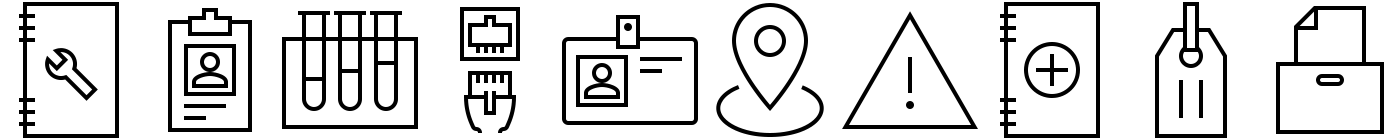
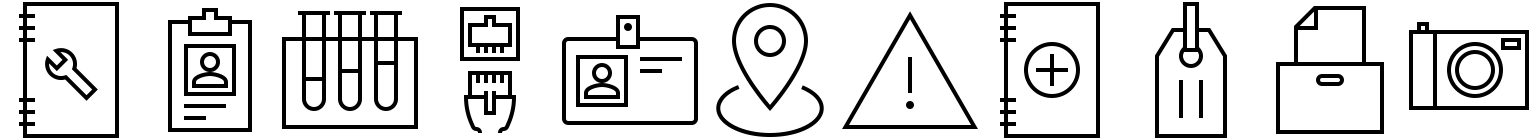
Fixes #440 - Allow a manufacturer to upload a manifest instead of having to paste it into the text area

Changed region(s): [[0.0, 0.0, 1.0, 1.0]]

diff --git a/app/assets/stylesheets/_forms.scss b/app/assets/stylesheets/_forms.scss
@@ -48,7 +48,12 @@ label {
 // Checkboxes ---------------------------------------------------------//
 
 input[type="checkbox"] {
-  display: none;
+  width: 0.1px;
+  height: 0.1px;
+  opacity: 0;
+  overflow: hidden;
+  position: absolute;
+  z-index: -1;
 
   & + label {
     color: $black;
@@ -92,6 +97,15 @@ input[type="checkbox"] {
     cursor: not-allowed;
     pointer-events: none; // Future-proof disabling of clicks
     opacity: .35;
+  }
+  & + label.cross {
+    margin: 0;
+    padding: 0;
+    line-height: normal;
+
+    &:before {
+      display: none;
+    }
   }
 }
 
@@ -218,3 +232,91 @@ body.devise {
 .input-block {
   width: 100%;
 }
+
+// Input file style ---------------------------------------------------------//
+
+.inputfile {
+  width: 0.1px;
+  height: 0.1px;
+  opacity: 0;
+  overflow: hidden;
+  position: absolute;
+  z-index: -1;
+}
+
+label.input,
+.inputfile + label {
+    font-family: $sans;
+    font-weight: 400;
+    color: $blue;
+    display: inline-block;
+    cursor: pointer;
+    max-width: 350px;
+    white-space: nowrap;
+    overflow: hidden;
+    text-overflow: ellipsis;
+    position: relative;
+
+}
+
+.clear-input,
+.clear-label {
+  line-height: normal;
+  display: none;
+  position: absolute;
+  right: 8px;
+  top: 12px;
+}
+
+label.on {
+  box-shadow: 0px 1px 3px rgba(0,0,0,0.4);
+  padding: 0 30px 0 10px;
+  width: 350px;
+  span {
+    color: $gray4;
+    text-transform: lowercase;
+  }
+  .clear-input,
+  .clear-label {
+    display: block;
+  }
+}
+.inputfile:focus + label,
+.inputfile + label:hover {
+    color: darken($blue, 10%);
+}
+
+.choose-picture {
+  text-align: center;
+  padding: 100px;
+  border: 2px dashed $gray1;
+  width: 540px;
+  height: 450px;
+  position: relative;
+
+  h2 {
+    margin: 0 0 8px 0;
+    color: $gray2;
+  }
+
+  .ic140-picture {
+    opacity: 0.4;
+  }
+
+  .clear-label {
+    display: block;
+  }
+}
+
+.file-uploaded + .upload-new-file {
+  display: none;
+}
+
+.file-uploaded.remove {
+  display: none;
+
+  + .upload-new-file {
+    display: block;
+  }
+}
+

diff --git a/vendor/assets/javascripts/jquery.custom-file-input.js b/vendor/assets/javascripts/jquery.custom-file-input.js
@@ -1,0 +1,51 @@
+/*
+  By Osvaldas Valutis, www.osvaldas.info
+  Available for use under the MIT License
+*/
+
+'use strict';
+
+;( function( $, window, document, undefined )
+{
+  $( '.inputfile' ).each( function()
+  {
+    var $input   = $( this ),
+      $label   = $input.next( 'label' ),
+      labelVal = $label.html();
+
+    $input.on( 'change', function( e )
+    {
+      var fileName = '';
+
+      if( this.files && this.files.length > 1 )
+        fileName = ( this.getAttribute( 'data-multiple-caption' ) || '' ).replace( '{count}', this.files.length );
+      else if( e.target.value )
+        fileName = e.target.value.split( '\\' ).pop();
+
+      if( fileName )
+        $label.addClass('on').find( 'span' ).html( fileName );
+      else
+        $label.removeClass('on').html( labelVal );
+    });
+
+    // Firefox bug fix
+    $input
+    .on( 'focus', function(){ $input.addClass( 'has-focus' ); })
+    .on( 'blur', function(){ $input.removeClass( 'has-focus' ); });
+
+    function bindClearInput() {
+      $input.parent().find('.clear-input').on('click', function() {
+        $input.replaceWith($input = $input.clone(true));
+        $label.html(labelVal);
+        $label.removeClass('on');
+        bindClearInput();
+        return false;
+      });
+    }
+
+    bindClearInput();
+
+
+
+  });
+})( jQuery, window, document );

diff --git a/app/assets/stylesheets/_sprites.scss b/app/assets/stylesheets/_sprites.scss
@@ -2,7 +2,7 @@
 // SPRITES
 // =============================================================================
 
-/*---------------------- Icons 20 x 20  ------------------------*/
+/*---------------------- Icons 20 x 20 black ------------------------*/
 
 
 span[class^="icon-"],
@@ -24,6 +24,23 @@ span[class*=" icon-"] {
 .icon-block           {background-position:   -100px 0px};
 .icon-ellipsis        {background-position:   -120px 0px};
 
+
+
+/*---------------------- Icons 20 x 20 blue ------------------------*/
+
+
+[class^="iconb-"],
+[class*=" iconb-"] {
+  display: inline-block;
+  width: 20px;
+  height: 20px;
+  line-height: 20px;
+  vertical-align: text-top;
+  background-image: image-url($icons-20x20-blue);
+  background-repeat: no-repeat;
+}
+
+.iconb-upload           {background-position:      0px 0px};
 
 
 /*---------------------- Icons 140 x 140  ------------------------*/
@@ -50,3 +67,4 @@ span[class*=" ic140-"] {
 .ic140-algorithms               {background-position:     -980px 0px};
 .ic140-categories               {background-position:    -1120px 0px};
 .ic140-sharing-requests         {background-position:    -1260px 0px};
+.ic140-picture                  {background-position:    -1400px 0px};

diff --git a/app/assets/stylesheets/_global.scss b/app/assets/stylesheets/_global.scss
@@ -47,6 +47,12 @@ a {
 .text-left {
   text-align: left;
 }
+.text-small {
+  font-size: 70%;
+  &.muted {
+    color: $gray3;
+  }
+}
 .align-top {
   @include align-self(flex-start);
 }
@@ -91,6 +97,11 @@ a[title="Back"] {
 
 .button-actions {
   margin-top: 30px;
+
+  hr {
+    border-color: $gray1;
+    margin-bottom: 35px;
+  }
 }
 
 .box {
@@ -103,6 +114,10 @@ a[title="Back"] {
 
   &.big {
     padding: 65px;
+  }
+
+  &.light {
+    border: 1px solid $gray1;
   }
 }
 

diff --git a/app/assets/stylesheets/_variables.scss b/app/assets/stylesheets/_variables.scss
@@ -27,6 +27,7 @@ $gray1: rgba(0,0,0,.1);
 $col-padd: 10px;
 
 $icons-20x20-black:          "icons-20x20-black.png";
+$icons-20x20-blue:           "icons-20x20-blue.png";
 $icons-140x140-black:        "icons-140x140-black.png";
 
 

diff --git a/app/assets/javascripts/application.js b/app/assets/javascripts/application.js
@@ -170,4 +170,14 @@ $(document).ready(function(){
     flashn.hide();
   });
 
+
+
+  $(".clear-label").on('click', function () {
+    $(this).closest('.file-uploaded').addClass('remove');
+  });
+
+
+
 });
+
+
